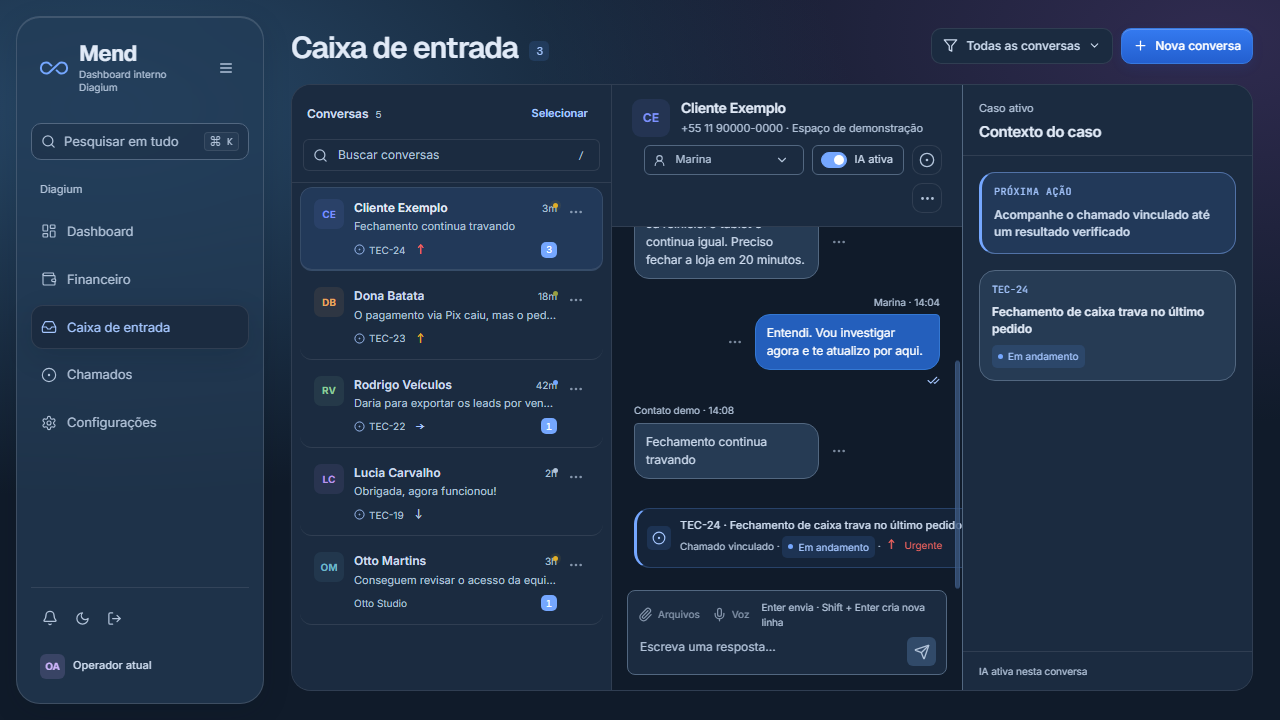
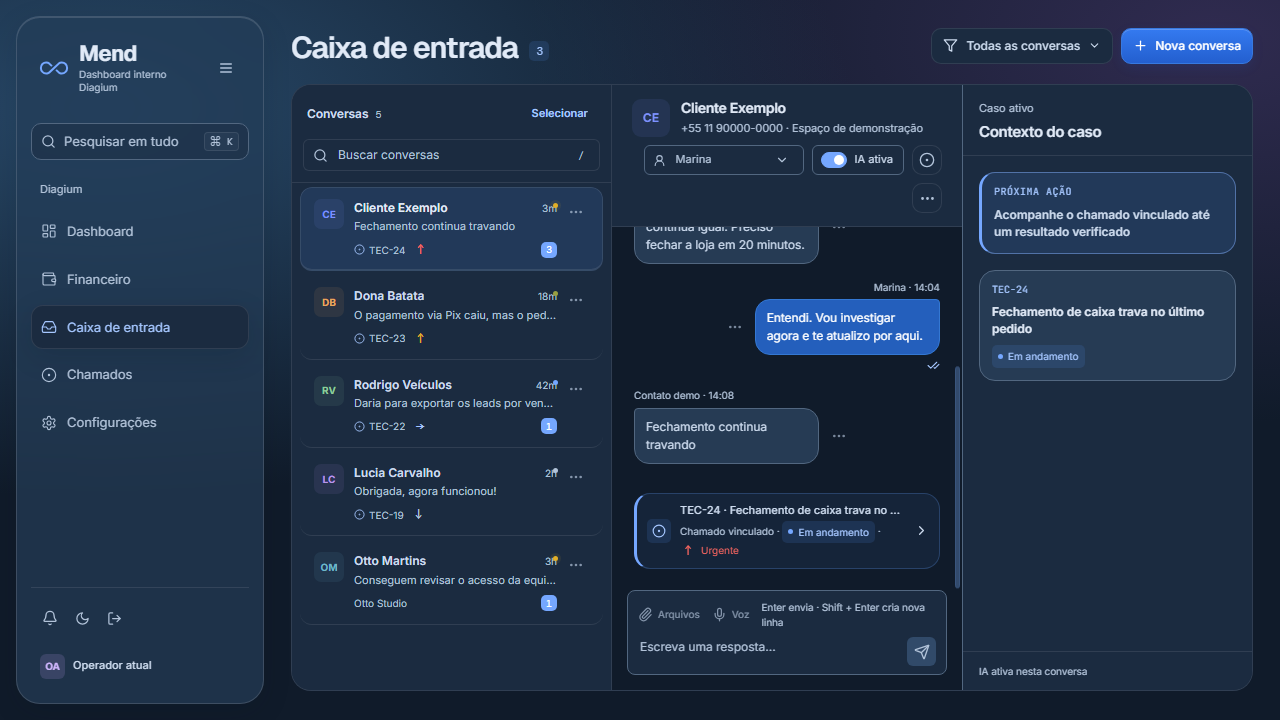
fix: refine settings typography and contain inbox cards

Changed region(s): [[0.5, 0.3056, 0.75, 0.5194], [0.5, 0.7028, 0.75, 0.7944], [0.5, 0.5194, 0.6562, 0.6722]]

diff --git a/e2e/inbox-card-width.spec.ts b/e2e/inbox-card-width.spec.ts
@@ -1,0 +1,54 @@
+import { expect, test } from "@playwright/test";
+
+for (const viewport of [
+  { name: "desktop", width: 1280, height: 900 },
+  { name: "mobile", width: 390, height: 844 },
+]) {
+  test(`${viewport.name} Inbox keeps linked issue card and message bubbles inside the canvas`, async ({
+    page,
+  }) => {
+    await page.setViewportSize({
+      width: viewport.width,
+      height: viewport.height,
+    });
+    await page.addInitScript(() => {
+      localStorage.setItem("mend.interface-language", "en-US");
+    });
+    await page.goto("/inbox?demo=1");
+
+    await page
+      .getByRole("button", { name: /Open conversation with/ })
+      .first()
+      .click();
+
+    const canvas = page.locator(".message-canvas");
+    const issueCard = page.locator(".issue-event");
+    await expect(canvas).toBeVisible();
+    await expect(issueCard).toBeVisible();
+    await issueCard.scrollIntoViewIfNeeded();
+
+    const bounds = await page.evaluate(() => {
+      const canvas = document.querySelector(".message-canvas");
+      const issueCard = document.querySelector(".issue-event");
+      if (!canvas || !issueCard) return null;
+      const rect = (element: Element) => {
+        const { left, right } = element.getBoundingClientRect();
+        return { left, right };
+      };
+      return {
+        canvas: rect(canvas),
+        issueCard: rect(issueCard),
+        bubbles: Array.from(
+          canvas.querySelectorAll<HTMLElement>(".message-bubble"),
+        ).map(rect),
+      };
+    });
+
+    expect(bounds).not.toBeNull();
+    expect(bounds!.bubbles.length).toBeGreaterThan(0);
+    for (const child of [bounds!.issueCard, ...bounds!.bubbles]) {
+      expect(child.left).toBeGreaterThanOrEqual(bounds!.canvas.left - 1);
+      expect(child.right).toBeLessThanOrEqual(bounds!.canvas.right + 1);
+    }
+  });
+}

diff --git a/src/styles/workspace-design.css b/src/styles/workspace-design.css
@@ -470,3 +470,36 @@
     background: var(--surface);
   }
 }
+
+/* Settings typography: keep labels and controls readable across all routes. */
+.app-shell .settings-v2-nav-item,
+.app-shell .settings-v2-form-grid label,
+.app-shell .settings-v2-inline-field,
+.app-shell .settings-v2-policy-grid label,
+.app-shell .settings-v2-check-grid legend,
+.app-shell .settings-v2-section-header p,
+.app-shell .settings-v2-row-main span,
+.app-shell .settings-v2-row-main small,
+.app-shell .settings-overview-row-main span,
+.app-shell .settings-v2-audit-row span,
+.app-shell .settings-v2-audit-row time {
+  font-family: var(--font-product);
+  font-size: 12px;
+  letter-spacing: 0;
+  text-transform: none;
+}
+.app-shell .settings-v2-form-grid input,
+.app-shell .settings-v2-form-grid textarea,
+.app-shell .settings-v2-form-grid select,
+.app-shell .settings-v2-inline-field input {
+  font-family: var(--font-product);
+  font-size: 13px;
+}
+@media (max-width: 650px) {
+  .app-shell .settings-v2-form-grid input,
+  .app-shell .settings-v2-form-grid textarea,
+  .app-shell .settings-v2-form-grid select,
+  .app-shell .settings-v2-inline-field input {
+    font-size: 16px;
+  }
+}

diff --git a/src/styles/features/inbox.css b/src/styles/features/inbox.css
@@ -1310,6 +1310,7 @@
   letter-spacing: 0.04em;
 }
 .issue-event {
+  width: 100%;
   display: flex;
   align-items: center;
   gap: 9px;
@@ -1337,6 +1338,7 @@
   color: var(--accent-soft);
 }
 .issue-event > span:nth-child(2) {
+  width: 0;
   min-width: 0;
   flex: 1;
   display: flex;
@@ -1553,15 +1555,6 @@
   }
   .inbox-case-context {
     width: 100vw;
-  }
-  /* The linked-issue card is a shrink-to-fit button, so its untruncated
-     intrinsic width widened the whole message canvas and pushed outbound
-     bubbles past the visible right edge. Size it from the canvas instead. */
-  .issue-event {
-    width: 100%;
-  }
-  .issue-event > span:nth-child(2) {
-    width: 0;
   }
   .inbox-page .mobile-conversation-back,
   .conversation-header .inbox-context-trigger,

diff --git a/docs/design/MEND_DESIGN_SYSTEM.md b/docs/design/MEND_DESIGN_SYSTEM.md
@@ -37,7 +37,7 @@ headings are 17px. Monospace belongs only to actual technical identifiers.
 ## Color and material
 
 Light canvas #edf2f7, ink #182d44, muted #52677e, opaque surface #ffffff.
-Dark canvas #101b2a, ink #e1eaf7, muted #a5b6cc, surface #1b2b40.
+Dark canvas #101b2a, ink #e1eaf7, muted #b2c3d9, surface #1b2b40.
 Blue is the action and selection color. Green is verified/success; amber is
 provisional/attention; red is negative/error. Color never replaces labels.
 
@@ -74,7 +74,8 @@ overflow at 390px. Respect persisted theme and language settings.
 4. Verify Inbox controls, Issues list/board, Settings forms and Finance in both
    themes and mobile. Keep all permission/error/pending behavior.
 5. Run typecheck, build, lint, i18n, format, relevant tests and full E2E; inspect
-   rendered screenshots. Independent QA reviews the finished SHA before merge.
+   rendered screenshots. For this delivery Vinicius waived the independent QA
+   gate and requested Luna implementation assistance with final review by Tibo.
 
 No schema migrations, new services, production data changes or speculative
 financial aggregation belong to this visual implementation.

diff --git a/docs/design/reviews/workspace-design-2026-10/README.md b/docs/design/reviews/workspace-design-2026-10/README.md
@@ -32,7 +32,12 @@ Focused final E2E: 38 passed, including contrast in both themes, Settings
 typography, financial permission revocation, cached returns and all major screens.
 Full E2E: 194 passed, 10 skipped. After the final Inbox viewport correction,
 18 focused Inbox/workspace scenarios passed, including row bounds on mobile.
-Independent QA is pending and will be recorded in the PR.
+Vinicius waived the independent QA gate for this delivery, requesting Luna
+assistance and final review by Tibo. Luna identified a narrow-desktop linked-card
+overflow and residual small Settings form typography; both are corrected.
+Final follow-up validation: 46 Inbox/Settings/workspace E2E scenarios passed,
+plus four dedicated linked-card/message width regressions. Tibo reviewed the
+Luna changes and rendered evidence; no backend or authorization code changed.
 
 ## Visual evidence
 
